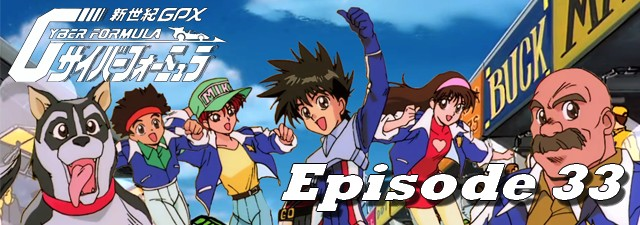
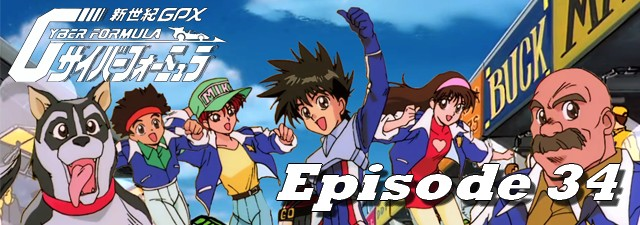
new release

Changed region(s): [[0.4062, 0.7156, 1.0, 0.9644]]

diff --git a/2016-06-26.html b/2016-06-26.html
@@ -1,0 +1,103 @@
+<!DOCTYPE html>
+<html lang="fr-FR">
+	<head>
+		<title>Future GPX Cyber Formula BD 34 vostfr | Nobluesky Fansub</title>
+		<meta charset="utf-8" />
+		<link rel="Shortcut Icon" type="image/x-icon" href="favicon.ico" />
+		<link href="fonts/fonts.css" rel="stylesheet" type="text/css" />
+		<link href="style.css" rel="stylesheet" type="text/css" media="screen" />
+		<link rel="stylesheet" href="menu.css" type="text/css" />
+		<script src="jquery.js" type="text/javascript"></script>
+		<script src="background-script.js" type="text/javascript"></script>
+	</head>
+<body>
+<div class="banner">
+	<a title="Nobluesky Fansub" href="index.html"> <img class="banner" alt="Nobluesky Fansub" title="Nobluesky Fansub" src="images/banner.png"/> </a>
+</div>
+<!-- end banner -->
+<div id="menu-wrapper">
+	<div id="menu">
+		<script type="text/javascript">
+		$( '#menu' ).load( 'menu.html' );
+		</script>
+		<noscript>Activez javascript pour voir le menu!</noscript>
+	</div>
+</div>
+<!-- end #menu -->
+<div id="page-wrapper">
+<div id="sidebar-wrapper">
+	<div id="sidebar">
+		<script type="text/javascript">
+		$( '#sidebar' ).load( 'sidebar.html' );
+		</script>
+	</div>
+	<!-- end #sidebar -->
+</div>
+	<div id="article">
+		<div id="content">
+			<div class="post">
+				<h1 class="title">Future GPX Cyber Formula BD 34 vostfr</h1>
+				<p class="meta"><span class="date">26 Juin 2016</span><span class="posted">Posté par <a href="about.html#nobluesky">Nobluesky</a></span></p>
+				<div style="clear: both;">&nbsp;</div>
+				<div class="entry">
+					<img class="post-images" src="images/2016/news22.jpg" alt="" />
+					<p>Salut la compagnie !</p>
+					<p>Voici votre épisode ! Bon, je préviens tout de suite, ce sera trèès dur d'attendre le suivant, car la course est mouvementée cette fois. Il faut dire qu'un circuit un peu spécial se présente à nos héros.</p>
+					<p>C'est aussi le 1er épisode sur lequel a travaillé Yone, qui se joint à l'aventure et me prête sa force pour repérer les vilaines fautes. Merci à lui !</p>
+					<p>Au fait, vous aimez les avions ?! (blague locale).</p>
+					<p>Bientôt de retour, pour vous jouer un mauvais tour !</p>
+					<h3>Téléchargements et streaming</h3>
+					<p class="links dl"><a href="http://jheberg.net/captcha/fgpxcf-34-vostfr-bd/" class="button-dl">Jheberg</a></p>&nbsp; | &nbsp;
+					<p class="links dl"><a href="http://rutube.ru/video/39874e94121e90ffd0a128079a75a274/" class="button-dl">Rutube</a></p>&nbsp; | &nbsp;
+					<p class="links dl"><a href="https://mega.nz/#!fQN3hYIY!eXHcoXwGRNJR-14H9susPnWZeWJI-oJvC87X3JBBvWo" class="button-dl">Mega</a></p>&nbsp; | &nbsp;
+					<p class="links dl"><a href="https://openload.co/f/7ALcwNSwvzs/%5BNobluesub%5D_Future_GPX_Cyber_Formula_-_34_HD_%28960x720_x264%29.mp4" class="button-dl">Openload</a></p>
+					<h3>Commentaires</h3>
+					<div id="disqus_thread"></div>
+					<script type="text/javascript">
+						/* * * CONFIGURATION VARIABLES: EDIT BEFORE PASTING INTO YOUR WEBPAGE * * */
+						var disqus_shortname = 'noblueskyfansub'; // required: replace example with your forum shortname
+
+						/* * * DON'T EDIT BELOW THIS LINE * * */
+						(function() {
+							var dsq = document.createElement('script'); dsq.type = 'text/javascript'; dsq.async = true;
+							dsq.src = '//' + disqus_shortname + '.disqus.com/embed.js';
+							(document.getElementsByTagName('head')[0] || document.getElementsByTagName('body')[0]).appendChild(dsq);
+						})();
+					</script>
+					<noscript>Activez javascript pour voir les commentaires.</noscript>
+					<a href="http://disqus.com" class="dsq-brlink">commentaires propulsés par <span class="logo-disqus">Disqus</span></a>
+				</div>
+			</div>
+			<div style="clear: both;">&nbsp;</div>
+		</div>
+		<!-- end #content -->
+		<div style="clear: both;">&nbsp;</div>
+	</div>
+</div>
+<!-- end #page -->
+<script type="text/javascript">
+$(window).scroll(function() {
+    if ($(this).scrollTop() < 1000) {
+        $("#footer").hide();
+    }
+    else {
+        $("#footer").show();
+    }
+});
+$(window).scroll(function() {
+  if ($(this).scrollTop() < 1000) {
+    $("footer").slideUp();
+      }
+  else {
+    $("footer").slideDown();
+      }
+});		
+</script>
+<div id="footer">
+	<script type="text/javascript">
+	$( '#footer' ).load( 'footer.html' );
+	</script>
+</div>
+<!-- end #footer -->
+</body>
+</html>

diff --git a/index.html b/index.html
@@ -35,7 +35,7 @@
 	<div class="slider-wrapper theme-default">
 		<div class="ribbon"></div>
 		<div id="slider" class="nivoSlider">
-			<a href="2016-06-16.html"><img src="images/img01.jpg" alt="" /></a><a href="2016-05-16.html"><img src="images/img02.jpg" alt="" /></a><img src="images/img03.jpg" alt="" />
+			<a href="2016-06-26.html"><img src="images/img01.jpg" alt="" /></a><a href="2016-05-16.html"><img src="images/img02.jpg" alt="" /></a><img src="images/img03.jpg" alt="" />
 		</div>
 	</div>
 <script type="text/javascript">
@@ -59,6 +59,19 @@
 				<div style="clear: both;">&nbsp;</div>
 				<div class="entry">
 					<p>Bienvenue sur le site de la Nobluesky Fansub !</p>
+				</div>
+			</div>
+			<div class="post">
+				<h1 class="title"><a href="2016-06-26.html">Future GPX Cyber Formula BD 34 vostfr</a></h1>
+				<p class="meta"><span class="date">26 Juin 2016</span><span class="posted">Posté par <a href="about.html#nobluesky">Nobluesky</a></span></p>
+				<p><a href="http://nobluesub.com/2016-06-26.html#disqus_thread">Commentaires</a></p>
+				<div style="clear: both;">&nbsp;</div>
+				<div class="entry">
+					<img class="post-images" src="images/2016/news22.jpg" alt="" />
+					<p>Salut la compagnie !</p>
+					<p>Voici votre épisode ! Bon, je préviens tout de suite, ce sera trèès dur d'attendre le suivant, car la course est mouvementée cette fois. Il faut dire qu'un circuit un peu spécial se présente à nos héros.</p>
+					<p>C'est aussi le 1er épisode sur lequel...</p>
+					<p class="links"><a href="2016-06-26.html" class="button">Lire la suite</a></p>
 				</div>
 			</div>
 			<div class="post">
@@ -112,18 +125,6 @@
 					<img class="post-images" src="images/2016/news18.jpg" alt="" />
 					<p>Vous êtes un peu "grammar nazi" sur les bords, vous tiquez toutes les deux lignes lorsque vous lisez les forums ou les commentaires des grands sites, ou bien vous vous désolez de voir qu'une énorme faute brise l'immersion en regardant votre épisode d'animé...</p>
 					<p class="links"><a href="2016-05-09_2.html" class="button">Lire la suite</a></p>
-				</div>
-			</div>
-			<div class="post">
-				<h1 class="title"><a href="2016-05-09.html">Future GPX Cyber Formula BD 31 vostfr</a></h1>
-				<p class="meta"><span class="date">9 Mai 2016</span><span class="posted">Posté par <a href="about.html#nobluesky">Nobluesky</a></span></p>
-				<p><a href="http://nobluesub.com/2016-05-09.html#disqus_thread">Commentaires</a></p>
-				<div style="clear: both;">&nbsp;</div>
-				<div class="entry">
-					<img class="post-images" src="images/2016/news17.jpg" alt="" />
-					<p>Bonjour à tous,</p>
-					<p>Nous voici repartis avec le camion volant (il me fait toujours délirer ce truc) pour suivre Hayato sur les pistes Africaines, ainsi que Shinjyo, qui rencontre quelques...</p>
-					<p class="links"><a href="2016-05-09.html" class="button">Lire la suite</a></p>
 				</div>
 			</div>
 			<div id="button-page-wrapper">

diff --git a/page2.html b/page2.html
@@ -31,7 +31,7 @@
 	<div class="slider-wrapper theme-default">
 		<div class="ribbon"></div>
 		<div id="slider" class="nivoSlider">
-			<a href="2016-06-16.html"><img src="images/img01.jpg" alt="" /></a><a href="2016-05-16.html"><img src="images/img02.jpg" alt="" /></a><img src="images/img03.jpg" alt="" />
+			<a href="2016-06-26.html"><img src="images/img01.jpg" alt="" /></a><a href="2016-05-16.html"><img src="images/img02.jpg" alt="" /></a><img src="images/img03.jpg" alt="" />
 		</div>
 	</div>
 <script type="text/javascript">
@@ -50,6 +50,18 @@
 </div>
 	<div id="feed">
 		<div id="content">
+			<div class="post">
+				<h1 class="title"><a href="2016-05-09.html">Future GPX Cyber Formula BD 31 vostfr</a></h1>
+				<p class="meta"><span class="date">9 Mai 2016</span><span class="posted">Posté par <a href="about.html#nobluesky">Nobluesky</a></span></p>
+				<p><a href="http://nobluesub.com/2016-05-09.html#disqus_thread">Commentaires</a></p>
+				<div style="clear: both;">&nbsp;</div>
+				<div class="entry">
+					<img class="post-images" src="images/2016/news17.jpg" alt="" />
+					<p>Bonjour à tous,</p>
+					<p>Nous voici repartis avec le camion volant (il me fait toujours délirer ce truc) pour suivre Hayato sur les pistes Africaines, ainsi que Shinjyo, qui rencontre quelques...</p>
+					<p class="links"><a href="2016-05-09.html" class="button">Lire la suite</a></p>
+				</div>
+			</div>
 			<div class="post">
 				<h1 class="title"><a href="2016-04-25.html">Teekyuu Saison 7 Ep 5 à 8 vostfr</a></h1>
 				<p class="meta"><span class="date">25 Avril 2016</span><span class="posted">Posté par <a href="about.html#nobluesky">Nobluesky</a></span></p>
@@ -101,19 +113,6 @@
 					<p>Un épisode sympathique cette fois, un de mes préférés.</p>
 					<p>Je m'excuse d'avance pour le trou dans l'image à 20:08, souvenir de mon problème de mémoire qui a dégradé certains de mes fichiers. Si jamais d'autres épisodes en portent la trace...</p>
 					<p class="links"><a href="2016-03-12.html" class="button">Lire la suite</a></p>
-				</div>
-			</div>
-			<div class="post">
-				<h1 class="title"><a href="2016-03-03.html">Teekyuu Saison 6 Ep 9 à 12 vostfr</a></h1>
-				<p class="meta"><span class="date">3 Mars 2016</span><span class="posted">Posté par <a href="about.html#nobluesky">Nobluesky</a></span></p>
-				<p><a href="http://nobluesub.com/2016-03-03.html#disqus_thread">Commentaires</a></p>
-				<div style="clear: both;">&nbsp;</div>
-				<div class="entry">
-					<img class="post-images" src="images/2016/news12.jpg" alt="" />
-					<p>Salut à tous!</p>
-					<p>Voici la fin de Teekyuu 6, une très bonne saison je trouve, même supérieure aux premières. Qu'en dites-vous ?</p>
-					<p>On se dit à la prochaine...</p>
-					<p class="links"><a href="2016-03-03.html" class="button">Lire la suite</a></p>
 				</div>
 			</div>
 			<div id="button-page-wrapper">

diff --git a/future-gpx-cyber-formula.html b/future-gpx-cyber-formula.html
@@ -218,6 +218,12 @@
 					<p class="links dl"><a href="http://rutube.ru/video/c38be2eb710650b3182ff2e1363711e9/" class="button-dl">Rutube</a></p>&nbsp; | &nbsp;
 					<p class="links dl"><a href="https://mega.nz/#!vF9y2BQT!O9zeI8YPsuhRJNhjUBvuLqxbPAEIbisgEmAy8_ze4Ao" class="button-dl">Mega</a></p>&nbsp; | &nbsp;
 					<p class="links dl"><a href="https://openload.co/f/-jfAaqYvOIk/%5BNobluesub%5D_Future_GPX_Cyber_Formula_-_33_HD_%28960x720_x264%29.mp4" class="button-dl">Openload</a></p>
+					<br>
+					Episode 34 :
+					<p class="links dl"><a href="http://jheberg.net/captcha/fgpxcf-34-vostfr-bd/" class="button-dl">Jheberg</a></p>&nbsp; | &nbsp;
+					<p class="links dl"><a href="http://rutube.ru/video/39874e94121e90ffd0a128079a75a274/" class="button-dl">Rutube</a></p>&nbsp; | &nbsp;
+					<p class="links dl"><a href="https://mega.nz/#!fQN3hYIY!eXHcoXwGRNJR-14H9susPnWZeWJI-oJvC87X3JBBvWo" class="button-dl">Mega</a></p>&nbsp; | &nbsp;
+					<p class="links dl"><a href="https://openload.co/f/7ALcwNSwvzs/%5BNobluesub%5D_Future_GPX_Cyber_Formula_-_34_HD_%28960x720_x264%29.mp4" class="button-dl">Openload</a></p>
 					
 					<h4>Version SD (640x480) non remasterisée (abandonnée)</h4>
 					Episode 01 : 

diff --git a/archives.html b/archives.html
@@ -46,6 +46,7 @@
 					<div>
 					<!-- here comes spoiler content -->
 					<div style="clear: both;">&nbsp;</div>
+					<p><a href="2016-03-03.html" target="_blank" >Teekyuu Saison 6 Ep 9 à 12 vostfr</a></p>
 					<p><a href="2016-02-29.html" target="_blank" >Future GPX Cyber Formula BD 28 vostfr</a></p>
 					<p><a href="2016-02-21.html" target="_blank" >Teekyuu Saison 6 Ep 5 à 8 vostfr</a></p>
 					<p><a href="2016-02-14.html" target="_blank" >Future GPX Cyber Formula BD 27 vostfr</a></p>

diff --git a/sidebar.html b/sidebar.html
@@ -1,4 +1,4 @@
-<!DOCTYPE html>
+<!DOCTYPE html>
 <html lang="fr-FR">
 <head>
 <meta charset="utf-8" />
@@ -29,9 +29,9 @@
 		<li>
 			<h2>Avancements</h2>
 			<ul>
-				<li>Future GPX Cyber Formula BD 34 : 80%
+				<li>Future GPX Cyber Formula BD 34 : 100%
 					<div class="progress-bar blue stripes" title="Progression" >
-					<span style="width: 80%"></span>
+					<span style="width: 100%"></span>
 					</div>
 				</li>
 			</ul>
